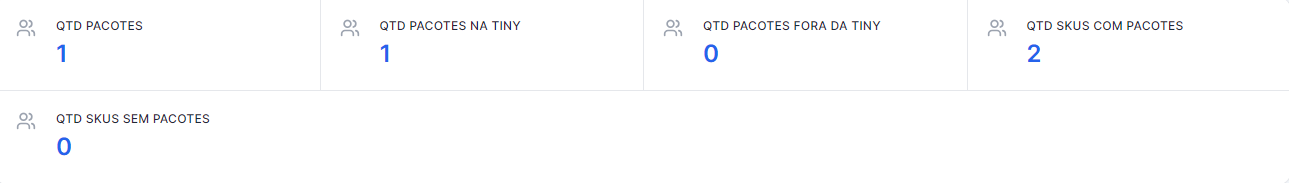
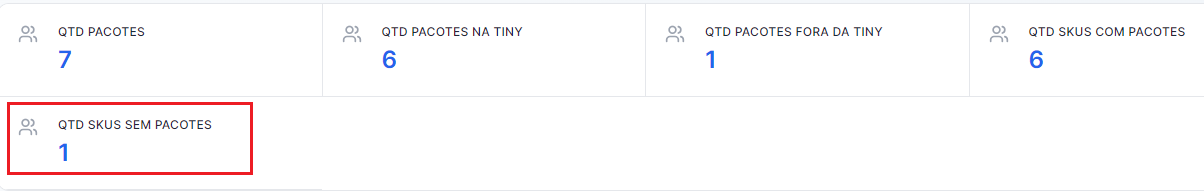
Finalização da página de controle de pacotes

diff --git a/docs/stock/stock_package_control.md b/docs/stock/stock_package_control.md
@@ -77,7 +77,7 @@ Veja um exemplo de inclusão de produtos:
 Após adicionar os produtos é necessário registrar o pacote na Tiny para gerar o Tiny ID, para isto basta clicar em **`Registrar Tiny`**
 :::
 
-## Precificar Pacote
+### Precificar Pacote
 
 Para precificar um pacote clique em **`$ Precificar`**, defina o preço e clique em **`Salvar`**
 
@@ -89,4 +89,52 @@ Após a finalização do cadastro, o preço do pacote e seu ID na Tiny serão in
 
 ![Tela precificação](/img/images/lista_preco_manual.png)
 
+---
+
 ## Cadastro Automático de Pacote
+
+O cadastro automático de pacotes depende da existência de **[regras de criação de pacotes](docs\settings\stock.md)** cadastradas.
+
+No cadastro automático, os produtos são agrupados por compatibilidade, complementando uns aos outros. Ex: Um notebook poderá ter como complemento uma bateria, memória ram etc.
+
+### Passo a Passo
+
+1. Na parte superior da tela de controle de pacotes clique em **`QTD SKUS SEM PACOTES`**
+
+![Dashboard pacotes](/img/images/dash_pacotes.png)
+
+2. Perceba que o pacote não possui um Tiny ID cadastrado, desta forma é necessário **enviar o cadastro para Tiny** para que este fique disponível para venda e você consiga gerar o pacote.
+
+![Dashboard pacotes](/img/images/tiny_id.png)
+
+3. Após enviar o cadastro para Tiny, clique em **`Gerar Pacote`**
+
+![Dashboard pacotes](/img/images/cadastro_automatico_pacote.png)
+
+4. Caso o pacote tenha sido gerado corretamente, o sistema irá gerar a mensagem abaixo:
+
+![Dashboard pacotes](/img/images/pacote_criado.png)
+
+5. O pacote será incluído na lista onde poderá ser gerenciado. Clique em **`Registar Tiny`** para o pacote ser enviado para o ERP de vendas.
+
+![Dashboard pacotes](/img/images/registrar_tiny.png)
+
+6. Clique em **`$ Precificar`** para definir o preço do pacote, digite o valor desejado e clique em **`Salvar`**
+
+![Dashboard pacotes](/img/images/precificar_pacote.png)
+
+:::warning[ATENÇÃO!]
+
+## Informações Importantes
+
+- Se o produto não possuir um Tiny ID, ele não vai aparecer na Tiny quando o pacote for cadastrado. No entanto, caso o pacote seja vendido e o pedido caia no GAG, o sistema irá considerar que o produto está dentro do pacote.
+
+- Produtos podem ser adicionados ou removidos do pacote, para isto basta clicar em **`Gerenciar Pacote`** e seguir os passos:
+
+  - Para adicionar: selecione o item ou SKU, a quantidade desejada e depois clique em **`Adicionar`**
+  - Para remover: selecione o produto e clique em **`Arquivar`**
+  - Feche a página de gerenciamento e clique em **`Atualizar`**
+
+- Sempre que adicionar ou remover produtos de um pacote, você deverá clicar em **`Atualizar Tiny`**
+
+:::
